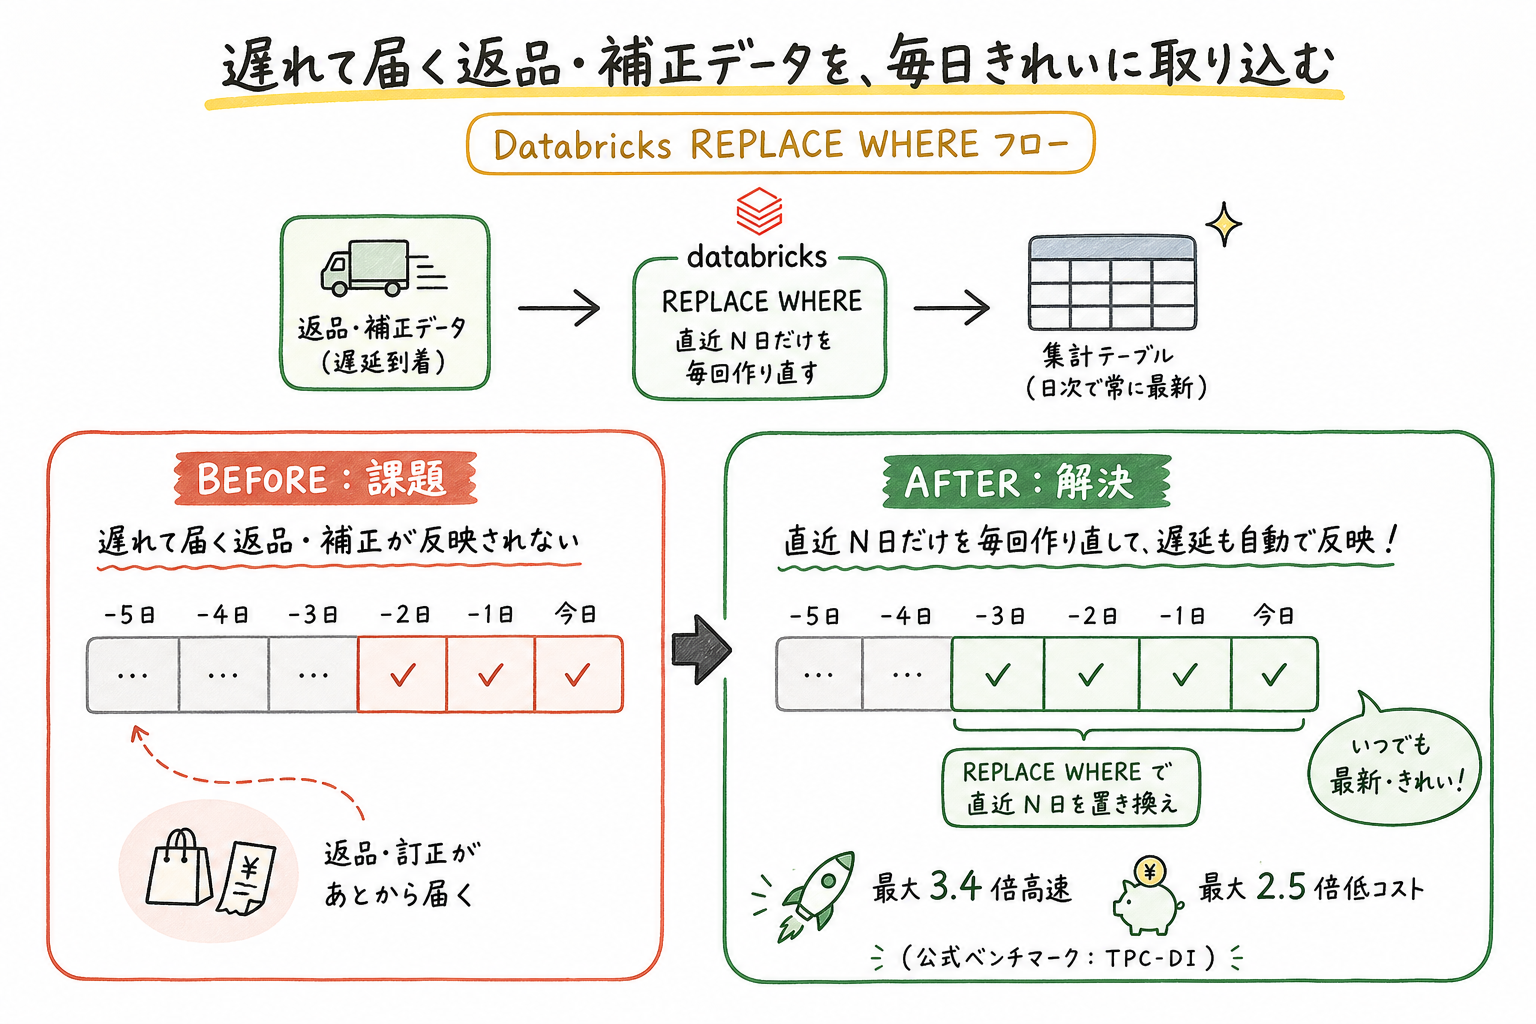
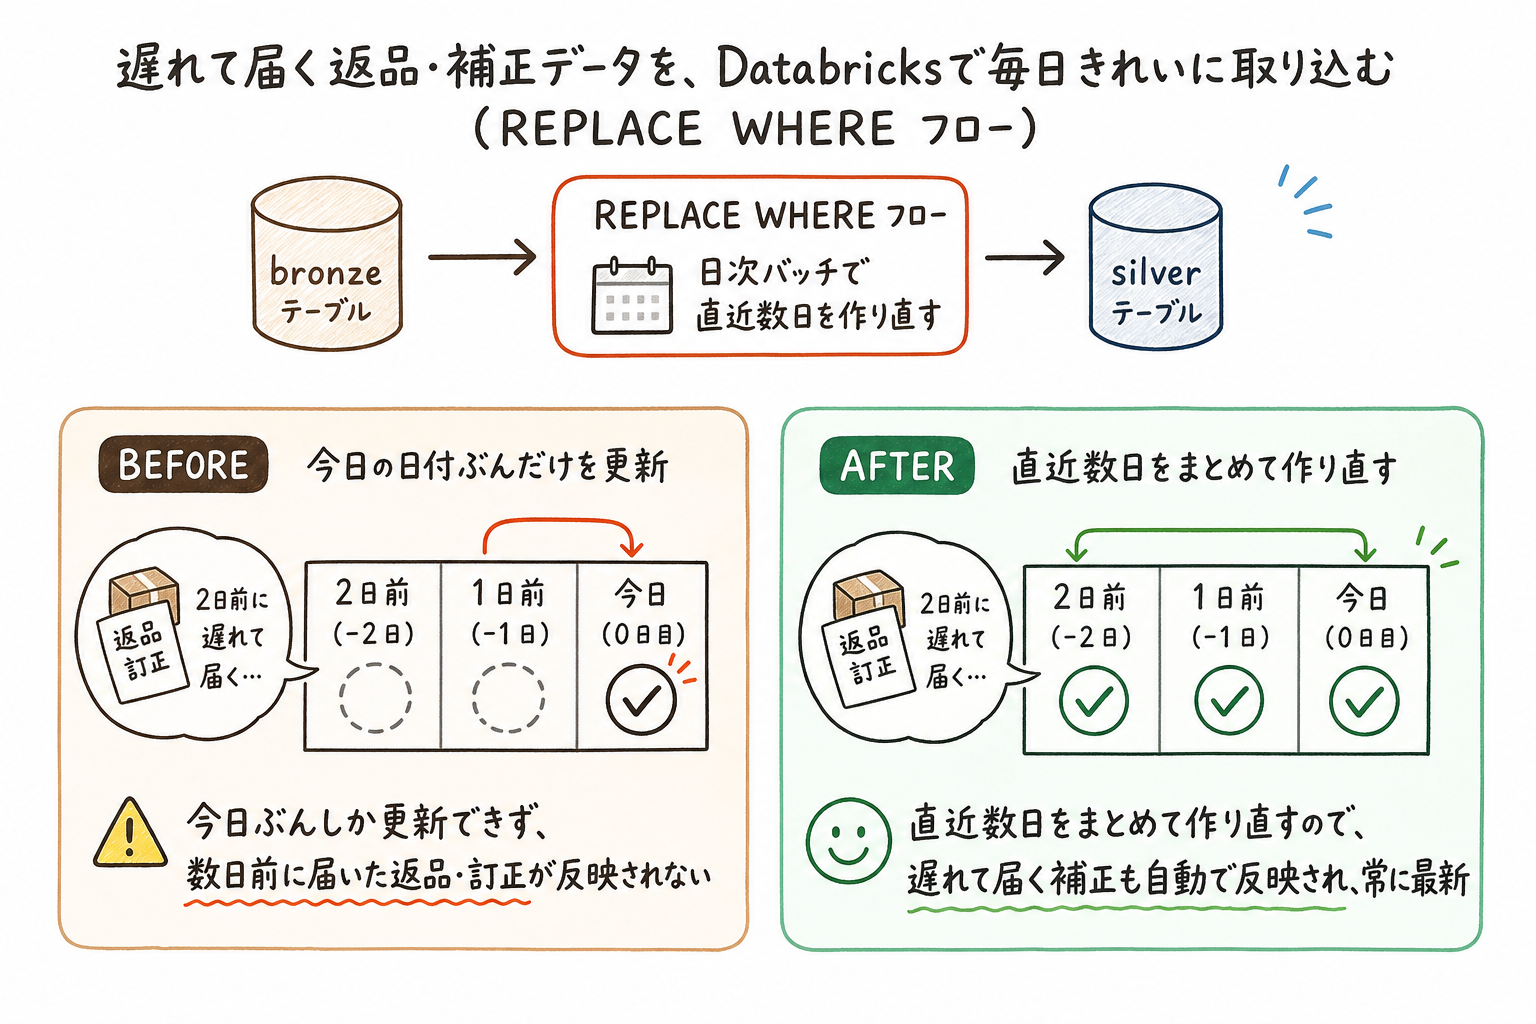
update: d9 REPLACE WHERE 記事の「手を動かして分かったこと」と画像を修正
- 注意点を2項目に整理（SQLエディタ不可・実行モード確認の項目を削除）
- 「1テーブル1フロー制限」を、東日本/西日本の集約という具体例で詳述
  （実機で2フローが失敗・1フローが成功することを確認済み）
- カバー画像を再生成（上部=概要図/左=BEFORE/右=AFTERの構成を保持、
  性能数値は非表示）

Changed region(s): [[0.0312, 0.0312, 1.0, 0.9688], [0.8438, 0.1875, 0.875, 0.2188]]

diff --git a/articles/d9-replace-where-flows-are-now-generally-available.md b/articles/d9-replace-where-flows-are-now-generally-available.md
@@ -216,12 +216,34 @@ REPLACE WHERE フローでは、この場合分けが消えて述語の宣言だ
 
 ## 手を動かして分かったこと
 
-検証を通して、ドキュメントを読むだけでは気づきにくい点がいくつかありました。
+検証を通して、ドキュメントを読むだけでは気づきにくい点が2つありました。
 
-- **REPLACE WHERE フローは SQL エディタ単体では実行できない。** `CREATE FLOW ... REPLACE WHERE` は Lakeflow 宣言的パイプラインの中でのみ評価されます。通常の SQL 実行や Statement Execution API に投げると `UC_COMMAND_NOT_SUPPORTED` で失敗します。パイプライン専用の構文だと割り切って設計する必要があります。
-- **1 つのストリーミングテーブルに REPLACE WHERE フローは 1 本まで。** 「関東用・関西用…と地域ごとにフローを分けて 1 テーブルに集約する」といった構成はできず、`UNSUPPORTED_FEATURE.MULTI_FLOW_REPLACE_WHERE_TARGET` になります。範囲は 1 本の述語で表現します。
-- **実行モードはイベントログで裏取りできる。** 今回は `COMPLETE_REPLACE_WHERE` として計画されたことがログに残りました。意図した範囲置換が本当に行われたかを、あとから確認できます。
-- **パイプラインの出力先スキーマは、ソースと別のスキーマにする。** 同じスキーマを指定すると、パイプラインの内部生成物がソースと衝突し `Found duplicate dataset` で失敗します。
+### 1 つの集計テーブルに、REPLACE WHERE フローは 1 本しか向けられない
+
+やりたくなるのが、こういう構成です。全国の売上を 1 つの `silver` テーブルに集約したいとき、東日本の店舗からの取り込みと西日本の店舗からの取り込みで、ソースやスキーマが別々になっていることはよくあります。そこで「東日本ぶんを置き換えるフロー」「西日本ぶんを置き換えるフロー」を別々に書いて、両方を同じ `silver` に向けたくなります。
+
+```sql
+-- こう書きたくなる（が、動かない）
+CREATE FLOW east_flow
+AS INSERT INTO silver BY NAME
+REPLACE WHERE region = 'east'
+SELECT * FROM bronze_east;
+
+CREATE FLOW west_flow
+AS INSERT INTO silver BY NAME
+REPLACE WHERE region = 'west'
+SELECT * FROM bronze_west;
+```
+
+ところが、1 つのターゲットテーブルに REPLACE WHERE フローを 2 本以上向けると、パイプラインは起動に失敗します。実際に試すと、2 本目を足した瞬間にエラーになりました（フローが 1 本だけなら、まったく同じ構成で成功します）。公式ドキュメントにも「1 つのターゲットテーブルにつき REPLACE WHERE フローは 1 本まで」と明記されています。
+
+つまり REPLACE WHERE は「複数のソースを担当ごとに分けて 1 テーブルへ流し込む」用途には使えません。地域や取り込み元でパーティションを分担させたい場合は、テーブル自体を分けるか、`UNION` などでソースを 1 つにまとめてから 1 本のフローで流す、といった設計にする必要があります。REPLACE WHERE の「範囲」は、あくまで 1 本の述語で表せる範囲、という前提で組み立てるのが安全です。
+
+### パイプラインの出力先スキーマは、ソースと別のスキーマにする
+
+REPLACE WHERE フローを使うパイプラインを組むとき、ソーステーブル（`bronze`）と出力先テーブル（`silver`）を同じスキーマに置くと、パイプラインが起動に失敗します。
+
+パイプラインはストリーミングテーブルを作る際、裏で `__materialization_...` という内部管理用のテーブルを同じスキーマに生成します。ソースと同居させると、この内部生成物が既存テーブルと名前空間で衝突し、`Found duplicate dataset` エラーになります。今回の検証でも、ソースと出力先を同じスキーマにした構成では失敗し、出力先を別スキーマに分けたら成功しました。ソース用と出力先用でスキーマを分けておくのが無難です。
 
 
 ## 検証コード
